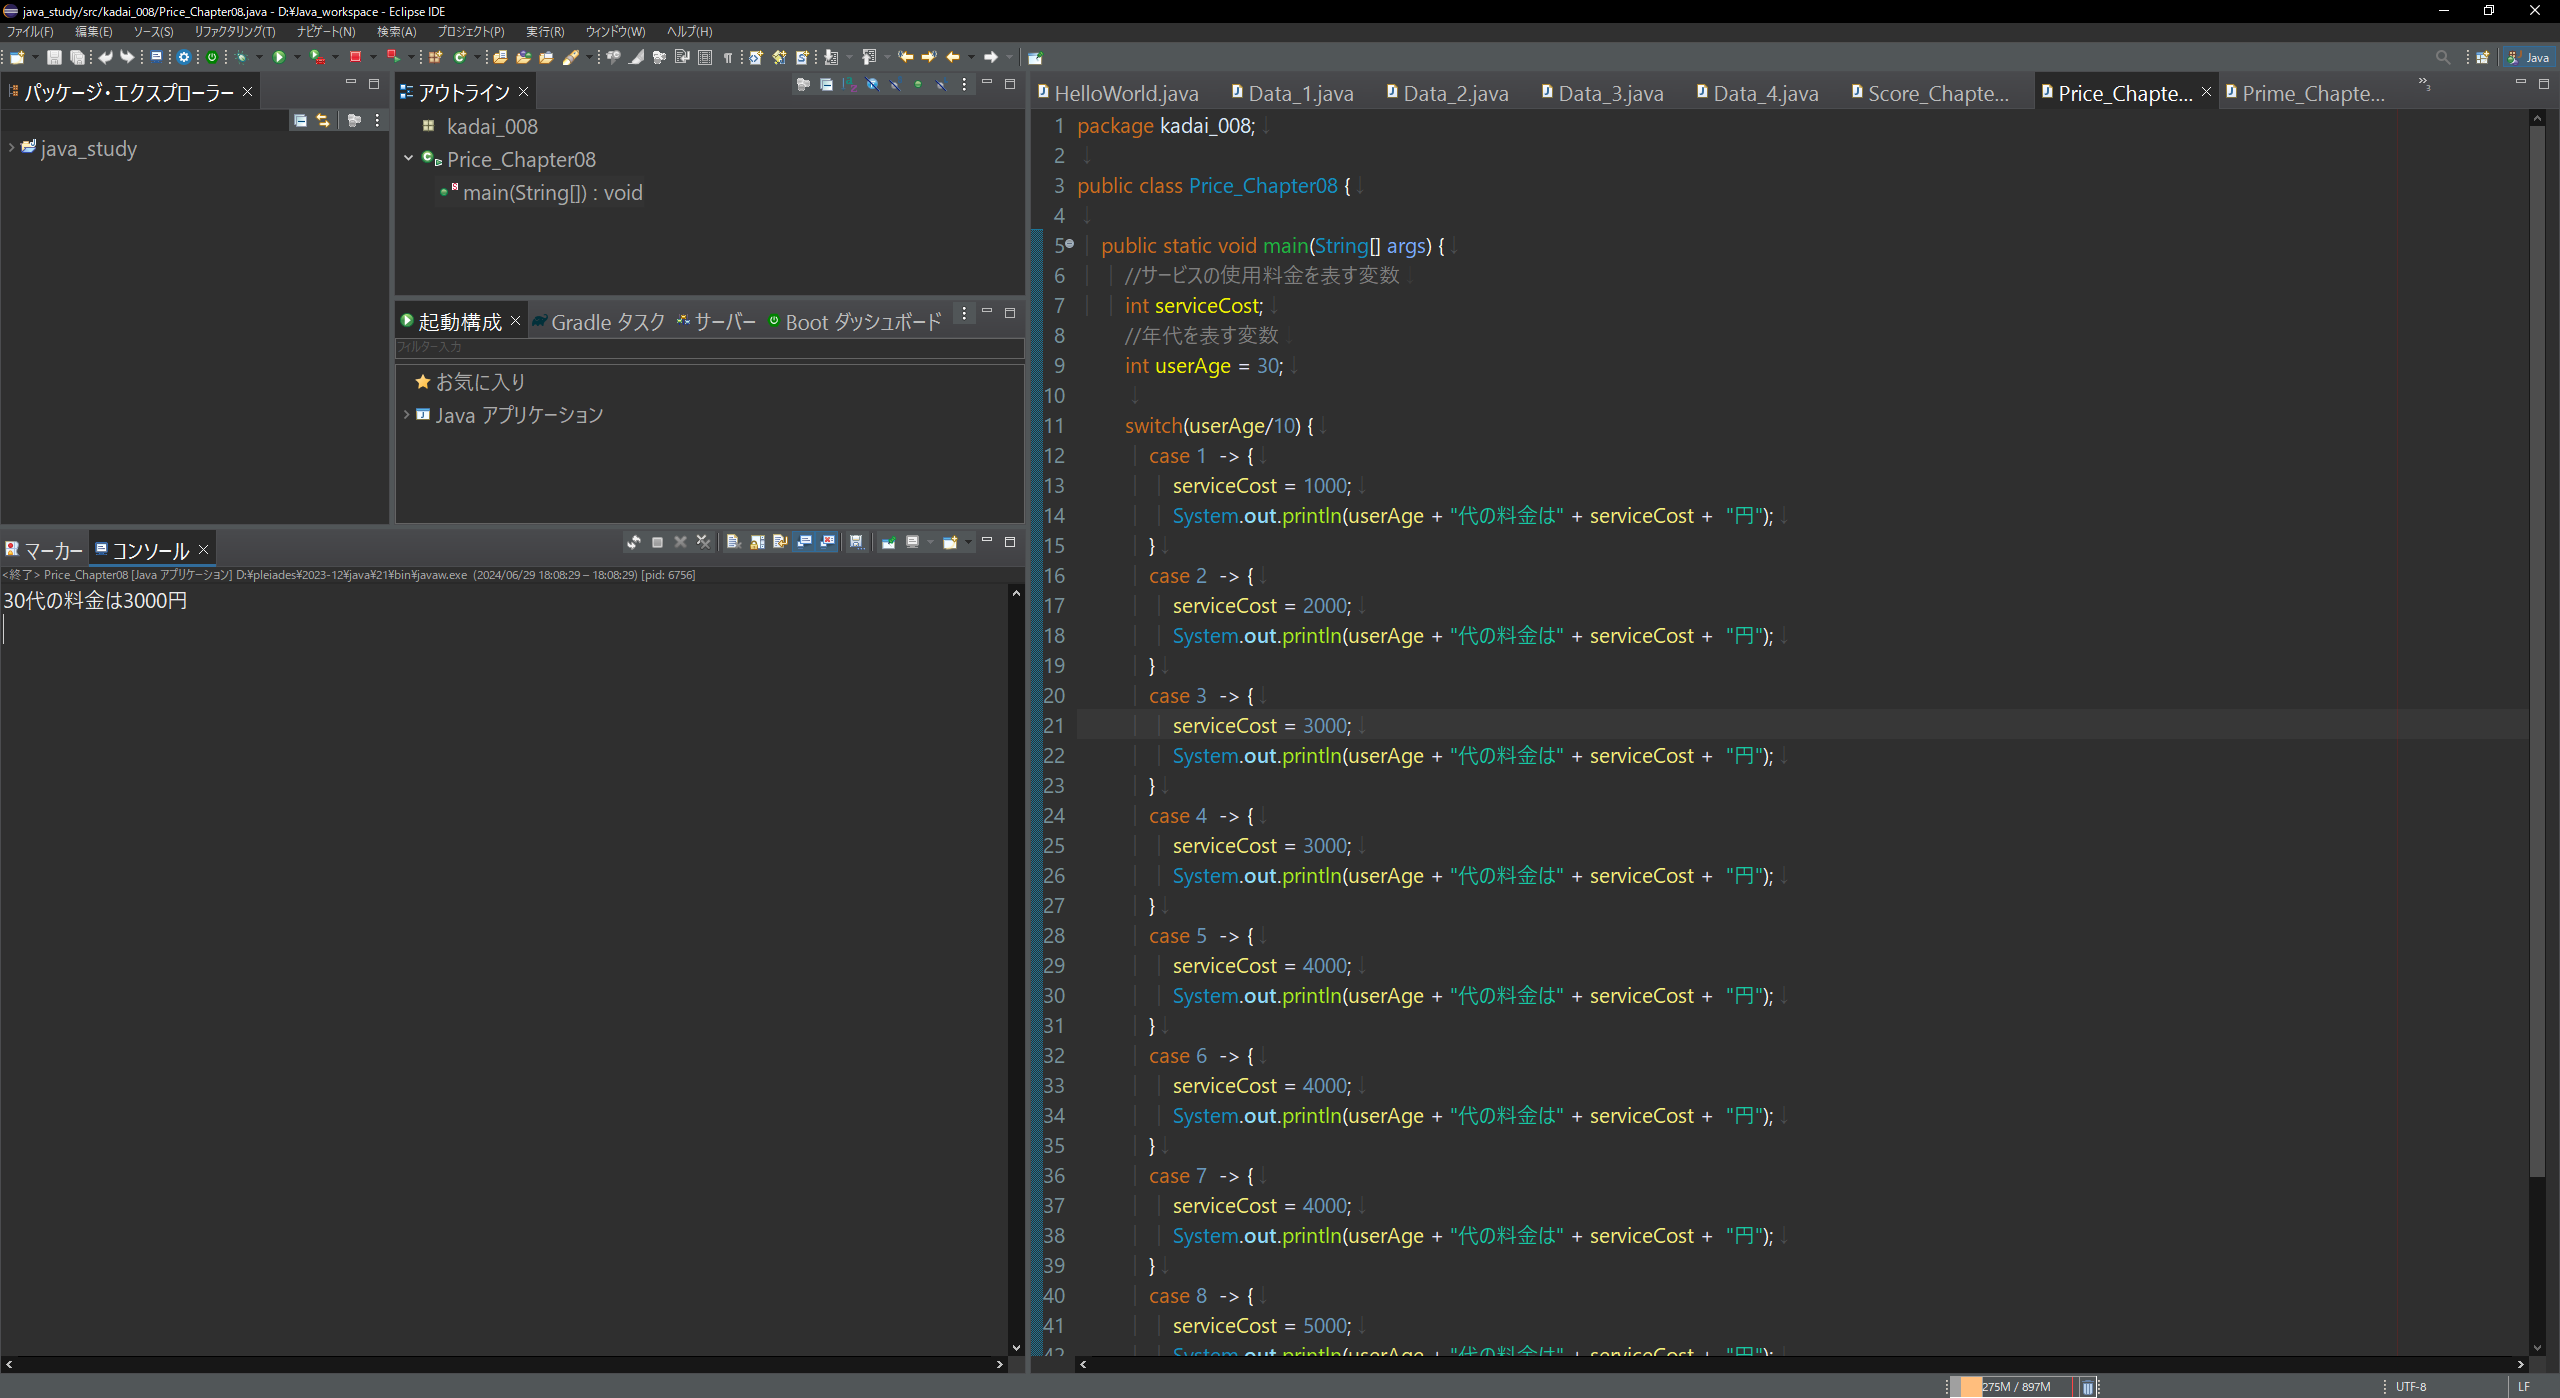
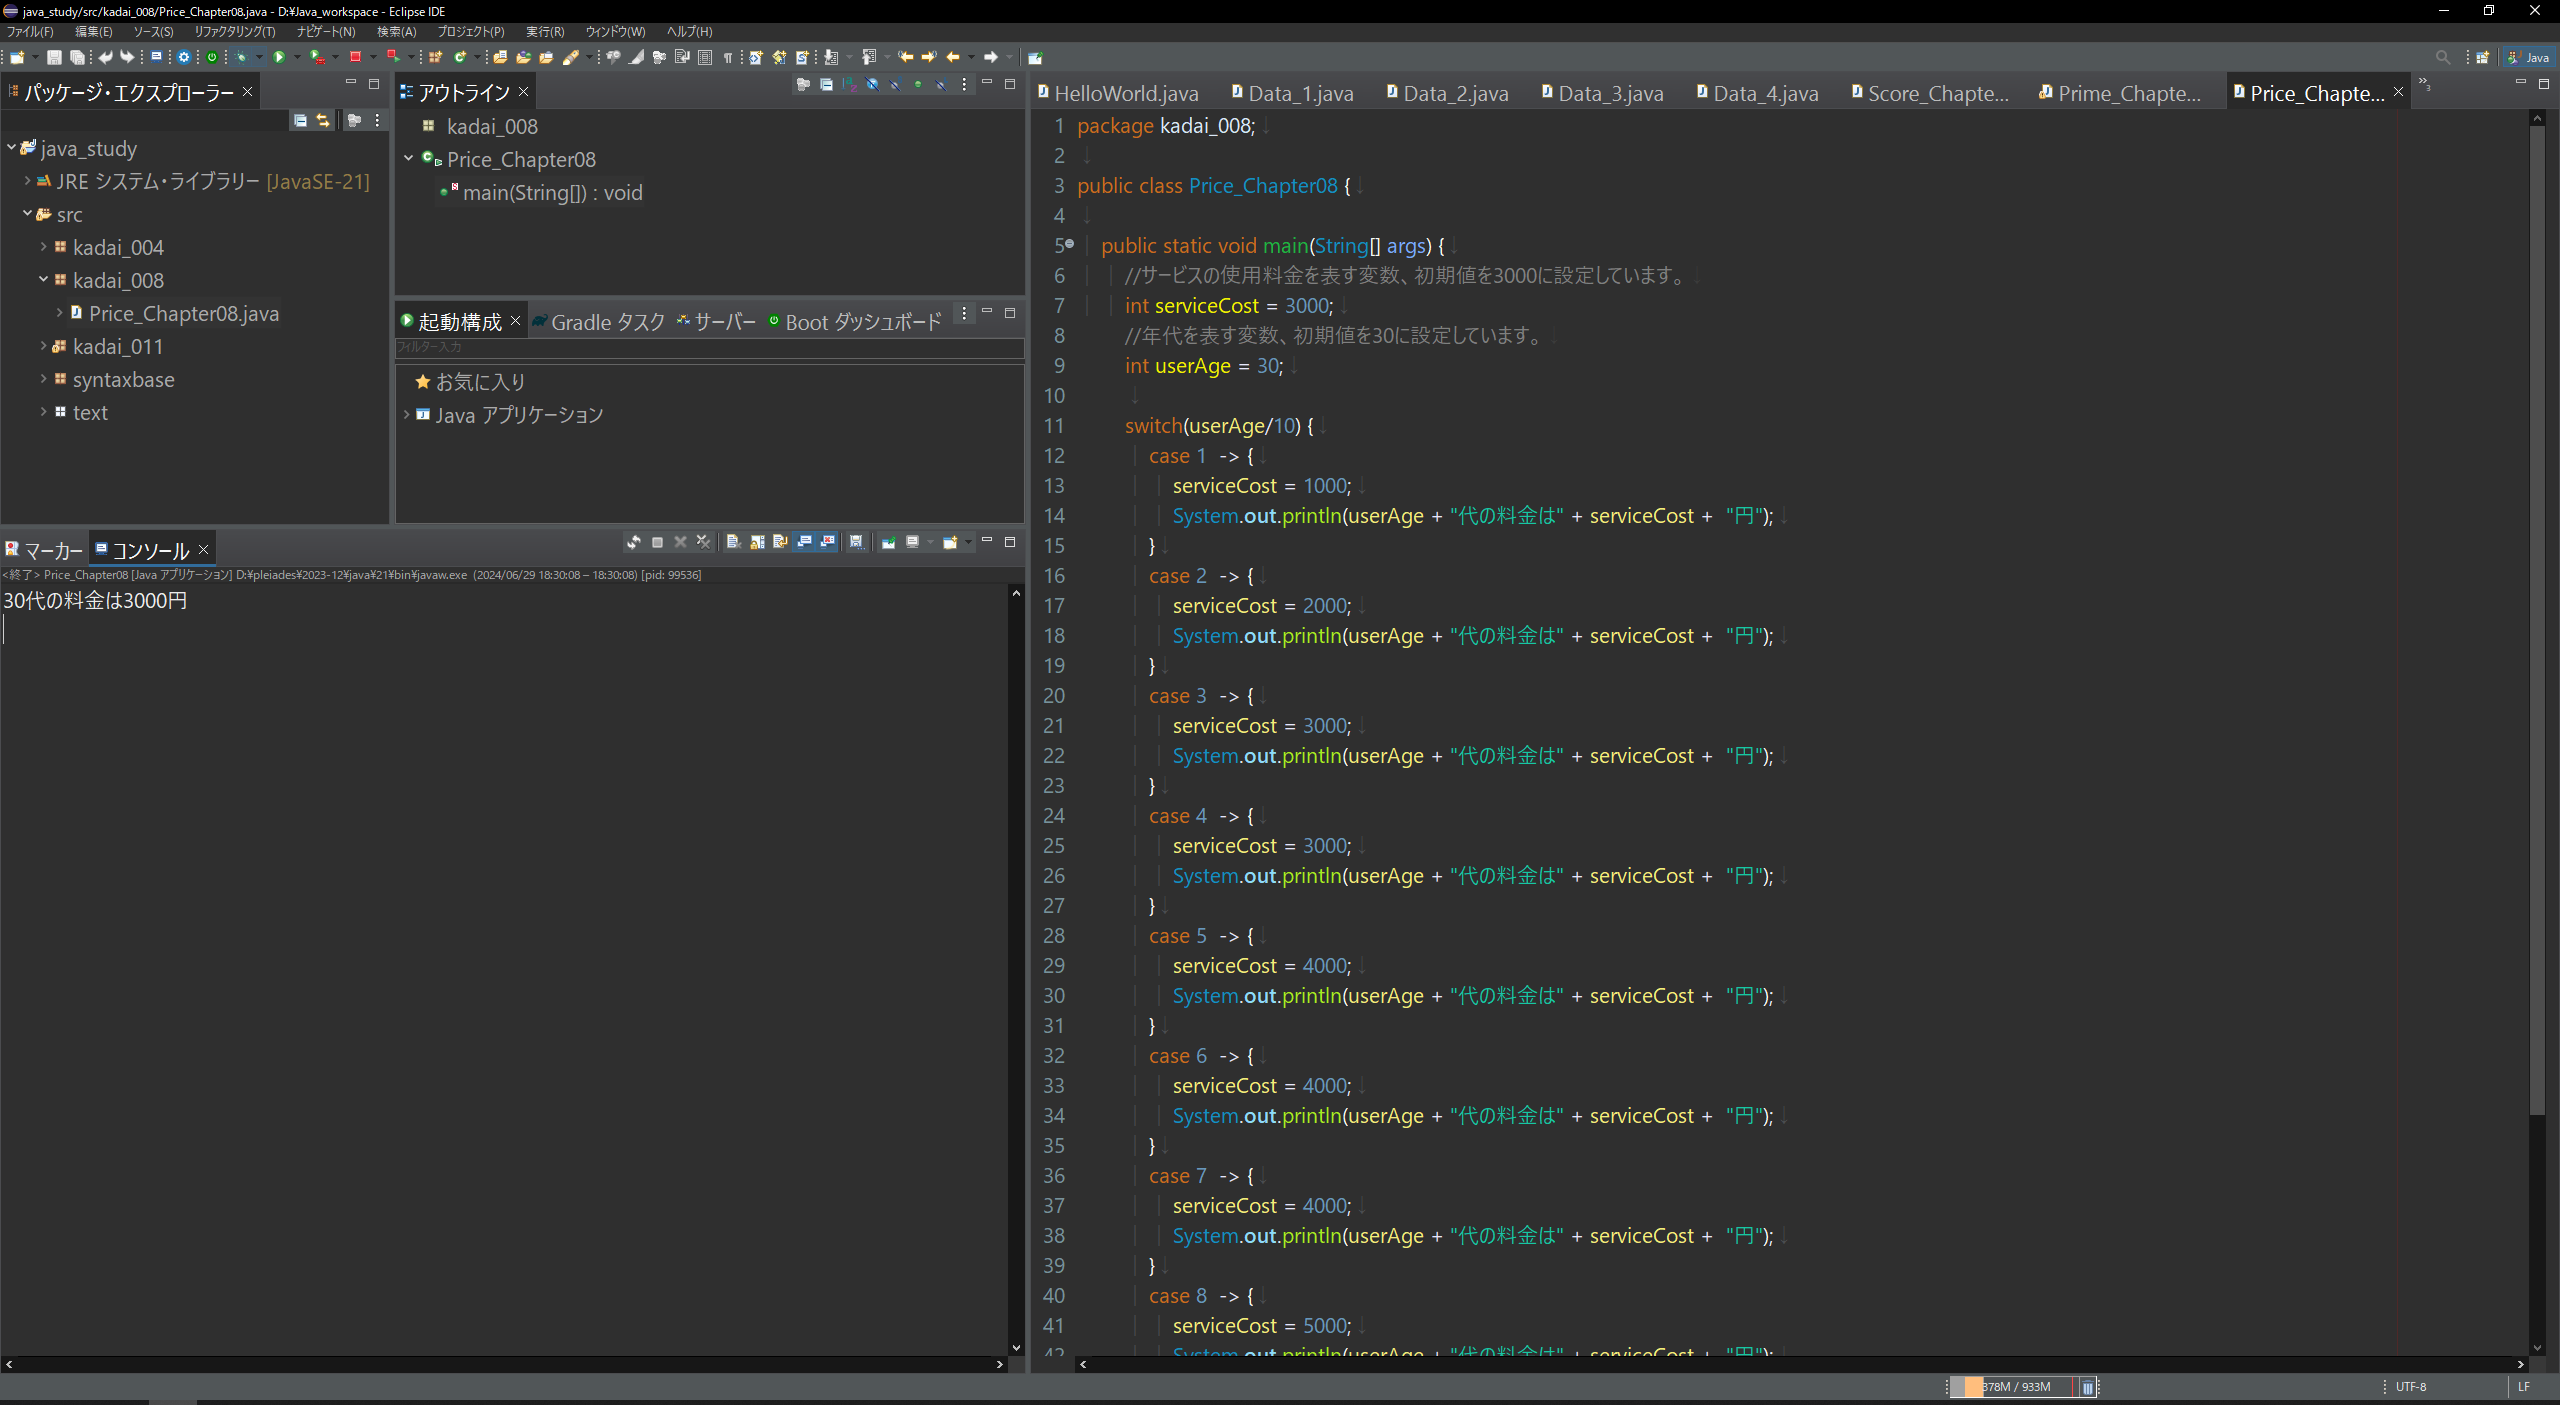
kadai_008を修正

diff --git a/kadai_008/Price_Chapter08.java b/kadai_008/Price_Chapter08.java
@@ -3,45 +3,48 @@ package kadai_008;
 public class Price_Chapter08 {
 
 	public static void main(String[] args) {
-		//サービスの使用料金を表す変数
-		int serviceCost;
-        //年代を表す変数
-        int userAge = 30;
-        
-        switch(userAge/10) {
-        	case 1  -> {
-        		serviceCost = 1000;
-        		System.out.println(userAge + "代の料金は" + serviceCost +  "円");
-        	}
-        	case 2  -> {
-        		serviceCost = 2000;
-        		System.out.println(userAge + "代の料金は" + serviceCost +  "円");
-        	}
-        	case 3  -> {
-        		serviceCost = 3000;
-        		System.out.println(userAge + "代の料金は" + serviceCost +  "円");
-        	}
-        	case 4  -> {
-        		serviceCost = 3000;
-        		System.out.println(userAge + "代の料金は" + serviceCost +  "円");
-        	}
-        	case 5  -> {
-        		serviceCost = 4000;
-        		System.out.println(userAge + "代の料金は" + serviceCost +  "円");
-        	}
-        	case 6  -> {
-        		serviceCost = 4000;
-        		System.out.println(userAge + "代の料金は" + serviceCost +  "円");
-        	}
-        	case 7  -> {
-        		serviceCost = 4000;
-        		System.out.println(userAge + "代の料金は" + serviceCost +  "円");
-        	}
-        	case 8  -> {
-        		serviceCost = 5000;
-        		System.out.println(userAge + "代の料金は" + serviceCost +  "円");
-        	}
-        	default   -> System.out.println("上記以外の年代の料金は500円");
-        }
+		//サービスの使用料金を表す変数、初期値を3000に設定しています。
+		int serviceCost = 3000;
+		//年代を表す変数、初期値を30に設定しています。
+		int userAge = 30;
+		
+		switch(userAge/10) {
+			case 1  -> {
+				serviceCost = 1000;
+				System.out.println(userAge + "代の料金は" + serviceCost +  "円");
+			}
+			case 2  -> {
+				serviceCost = 2000;
+				System.out.println(userAge + "代の料金は" + serviceCost +  "円");
+			}
+			case 3  -> {
+				serviceCost = 3000;
+				System.out.println(userAge + "代の料金は" + serviceCost +  "円");
+			}
+			case 4  -> {
+				serviceCost = 3000;
+				System.out.println(userAge + "代の料金は" + serviceCost +  "円");
+			}
+			case 5  -> {
+				serviceCost = 4000;
+				System.out.println(userAge + "代の料金は" + serviceCost +  "円");
+			}
+			case 6  -> {
+				serviceCost = 4000;
+				System.out.println(userAge + "代の料金は" + serviceCost +  "円");
+			}
+			case 7  -> {
+				serviceCost = 4000;
+				System.out.println(userAge + "代の料金は" + serviceCost +  "円");
+			}
+			case 8  -> {
+				serviceCost = 5000;
+				System.out.println(userAge + "代の料金は" + serviceCost +  "円");
+			}        	
+			default   -> {
+				serviceCost = 500;
+				System.out.println("上記以外の年代の料金は" +  serviceCost + "円");
+			}
+		}
 	}
 }
